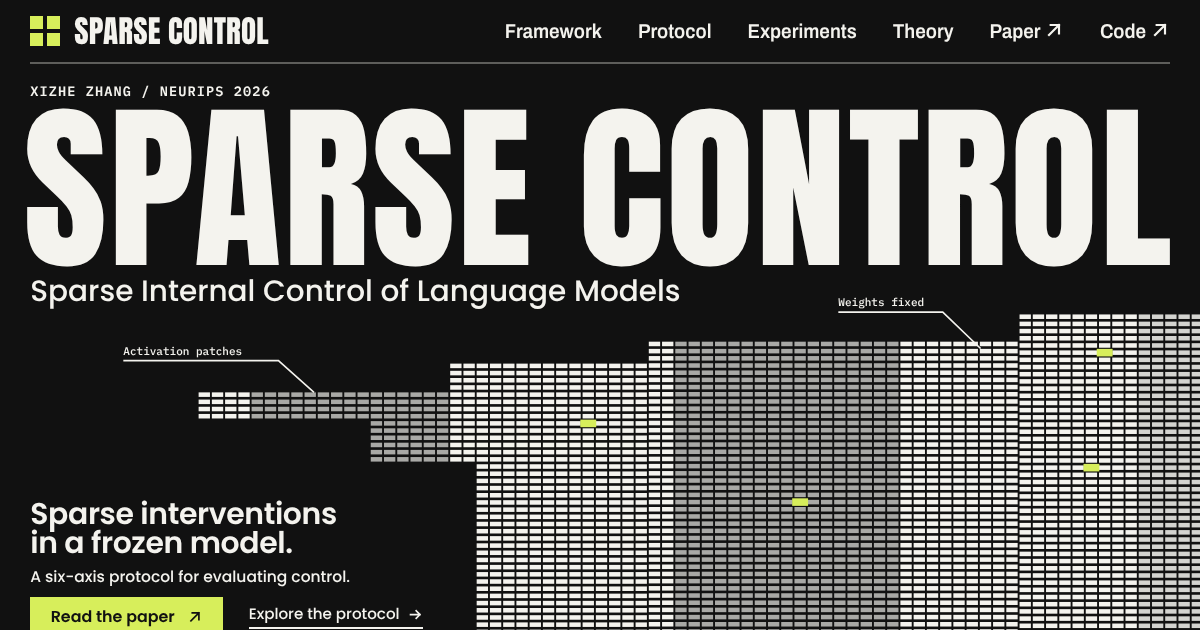
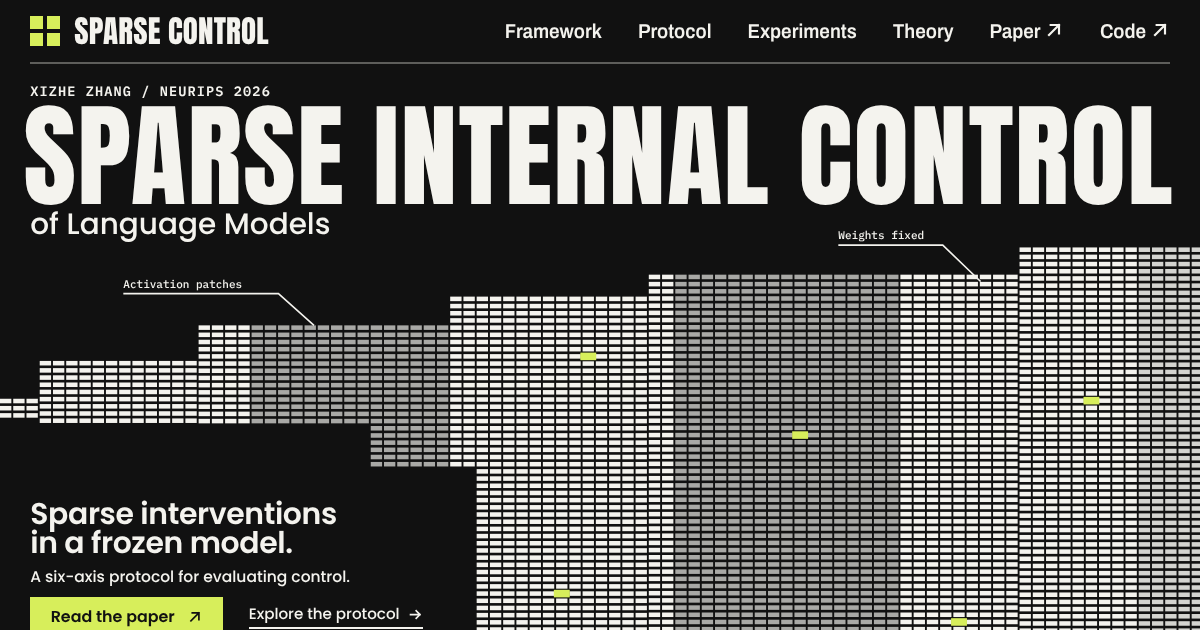
Spell out Sparse Internal Control in the hero title
The title now reads Sparse Internal Control, set smaller to fit, over
the subtitle of Language Models; the weight matrix follows the title
block. Phones stack the title on three lines. The share image and the
README banner are regenerated from the new hero.

Claude-Session: https://claude.ai/code/session_01L2A6VeTcmDE4DBXAbvURCG

diff --git a/index.html b/index.html
@@ -215,7 +215,7 @@ button{font:inherit; color:inherit; background:none; border:0; padding:0; cursor
   .sec{padding-top:48px; padding-bottom:48px}
   .hero{display:flex; flex-direction:column; min-height:0; padding-top:24px}
   .hero-art{order:2} .hero-foot{order:3}
-  .hero-title{margin-top:4px}
+  .hero-title{margin-top:6px; white-space:normal; width:auto; font-size:clamp(56px, 19vw, 132px); line-height:.94}
   .hero-sub{font-size:22px; margin-top:6px}
   .hero-art{position:relative; inset:auto; height:300px; margin:24px calc(-1 * var(--pr)) 0 calc(-1 * var(--pl))}
   .hero-foot{position:relative; left:auto; bottom:auto; max-width:none; padding:28px 0 36px}
@@ -337,8 +337,8 @@ button{font:inherit; color:inherit; background:none; border:0; padding:0; cursor
   <div class="hero-art" id="hero-art"><canvas id="mat" aria-hidden="true"></canvas></div>
   <div class="hero-head">
     <p class="label">Xizhe Zhang / NeurIPS 2026</p>
-    <h1 class="hero-title" id="h-title">Sparse Control</h1>
-    <p class="hero-sub">Sparse Internal Control of Language Models</p>
+    <h1 class="hero-title" id="h-title">Sparse Internal Control</h1>
+    <p class="hero-sub">of Language Models</p>
   </div>
   <div class="hero-foot" id="hero-foot">
     <h2>Sparse interventions<br>in a frozen model.</h2>
@@ -569,6 +569,7 @@ if (window.renderMathInElement) { try { renderMathInElement($('#axes'), { delimi
 /* ---- hero title fills the content width ---- */
 const title = $('.hero-title');
 function fitTitle(){
+  if (window.innerWidth <= 860){ title.style.fontSize = ''; return; } // phones: stacked, sized in CSS
   const w = title.parentElement.clientWidth + 14 * U();
   title.style.fontSize = '100px';
   const tw = title.getBoundingClientRect().width || 1;
@@ -585,11 +586,12 @@ function buildHero(){
   const r = cv.getBoundingClientRect(); W = Math.max(1, r.width); H = Math.max(1, r.height); dpr = Math.min(window.devicePixelRatio || 1, 2);
   cv.width = Math.round(W * dpr); cv.height = Math.round(H * dpr);
   const u = U(), narrow = window.innerWidth <= 860;
+  const dy = narrow ? 0 : $('.hero-head').getBoundingClientRect().bottom - r.top - 322 * u; // follow the title block
   const cw = 15 * u, ch = Math.max(3, 6 * u), px = 17.5 * u, py = Math.max(5, 9.5 * u);
   geo = { cw, ch, u };
   cells = [];
   for (let x = 0; x <= W; x += px){
-    const X = x / u, t = narrow ? 8 : (TOPS.find(([a, b]) => X >= a && X < b) || [0, 0, 0])[2] * u;
+    const X = x / u, t = narrow ? 8 : (TOPS.find(([a, b]) => X >= a && X < b) || [0, 0, 0])[2] * u + dy;
     const bottom = narrow ? H : X < 473 ? H - 304 * u : X < 630 ? H - 246 * u : H;
     const band = BANDS.find(([a, b]) => X >= a && X < b);
     for (let y = t; y + ch <= bottom; y += py) cells.push({ x, y, f: band ? band[2] : C.cream });
@@ -599,11 +601,11 @@ function buildHero(){
   cells.forEach(c => { o.fillStyle = c.f; o.fillRect(c.x, c.y, cw, ch); });
   if (!narrow){
     o.strokeStyle = C.cream; o.fillStyle = C.cream; o.lineWidth = 1.6; o.font = `500 ${Math.round(15 * u)}px "IBM Plex Mono", ui-monospace, monospace`; o.textBaseline = 'alphabetic';
-    const lab = (txt, x0, y0, x1, ty, tx2, ty2) => { o.fillText(txt, x0 * u, y0 * u); o.beginPath(); o.moveTo(x0 * u, ty * u); o.lineTo(x1 * u, ty * u); o.lineTo(tx2 * u, ty2 * u); o.stroke(); };
+    const lab = (txt, x0, y0, x1, ty, tx2, ty2) => { o.fillText(txt, x0 * u, y0 * u + dy); o.beginPath(); o.moveTo(x0 * u, ty * u + dy); o.lineTo(x1 * u, ty * u + dy); o.lineTo(tx2 * u, ty2 * u + dy); o.stroke(); };
     lab('Activation patches', 163, 384, 368, 392, 415, 434);
     lab('Weights fixed', 1108, 320, 1246, 328, 1296, 376);
   }
-  const pick = narrow ? [[.2, .3], [.45, .62], [.7, .2], [.86, .5], [.33, .85], [.62, .9]].map(([a, b]) => [a * W / u, b * H / u]) : PATCH;
+  const pick = narrow ? [[.2, .3], [.45, .62], [.7, .2], [.86, .5], [.33, .85], [.62, .9]].map(([a, b]) => [a * W / u, b * H / u]) : PATCH.map(([a, b]) => [a, b + dy / u]);
   lime = pick.map(([x, y]) => nearest(x * u, y * u)).filter(Boolean).map(c => ({ c, a: 1 }));
 }
 function nearest(x, y){ let best = null, bd = 1e12; for (const c of cells){ const d = (c.x - x) ** 2 + (c.y - y) ** 2; if (d < bd){ bd = d; best = c; } } return best; }

diff --git a/source/page.html b/source/page.html
@@ -211,7 +211,7 @@ button{font:inherit; color:inherit; background:none; border:0; padding:0; cursor
   .sec{padding-top:48px; padding-bottom:48px}
   .hero{display:flex; flex-direction:column; min-height:0; padding-top:24px}
   .hero-art{order:2} .hero-foot{order:3}
-  .hero-title{margin-top:4px}
+  .hero-title{margin-top:6px; white-space:normal; width:auto; font-size:clamp(56px, 19vw, 132px); line-height:.94}
   .hero-sub{font-size:22px; margin-top:6px}
   .hero-art{position:relative; inset:auto; height:300px; margin:24px calc(-1 * var(--pr)) 0 calc(-1 * var(--pl))}
   .hero-foot{position:relative; left:auto; bottom:auto; max-width:none; padding:28px 0 36px}
@@ -312,8 +312,8 @@ button{font:inherit; color:inherit; background:none; border:0; padding:0; cursor
   <div class="hero-art" id="hero-art"><canvas id="mat" aria-hidden="true"></canvas></div>
   <div class="hero-head">
     <p class="label">Xizhe Zhang / NeurIPS 2026</p>
-    <h1 class="hero-title" id="h-title">Sparse Control</h1>
-    <p class="hero-sub">Sparse Internal Control of Language Models</p>
+    <h1 class="hero-title" id="h-title">Sparse Internal Control</h1>
+    <p class="hero-sub">of Language Models</p>
   </div>
   <div class="hero-foot" id="hero-foot">
     <h2>Sparse interventions<br>in a frozen model.</h2>
@@ -474,6 +474,7 @@ if (window.renderMathInElement) { try { renderMathInElement($('#axes'), { delimi
 /* ---- hero title fills the content width ---- */
 const title = $('.hero-title');
 function fitTitle(){
+  if (window.innerWidth <= 860){ title.style.fontSize = ''; return; } // phones: stacked, sized in CSS
   const w = title.parentElement.clientWidth + 14 * U();
   title.style.fontSize = '100px';
   const tw = title.getBoundingClientRect().width || 1;
@@ -490,11 +491,12 @@ function buildHero(){
   const r = cv.getBoundingClientRect(); W = Math.max(1, r.width); H = Math.max(1, r.height); dpr = Math.min(window.devicePixelRatio || 1, 2);
   cv.width = Math.round(W * dpr); cv.height = Math.round(H * dpr);
   const u = U(), narrow = window.innerWidth <= 860;
+  const dy = narrow ? 0 : $('.hero-head').getBoundingClientRect().bottom - r.top - 322 * u; // follow the title block
   const cw = 15 * u, ch = Math.max(3, 6 * u), px = 17.5 * u, py = Math.max(5, 9.5 * u);
   geo = { cw, ch, u };
   cells = [];
   for (let x = 0; x <= W; x += px){
-    const X = x / u, t = narrow ? 8 : (TOPS.find(([a, b]) => X >= a && X < b) || [0, 0, 0])[2] * u;
+    const X = x / u, t = narrow ? 8 : (TOPS.find(([a, b]) => X >= a && X < b) || [0, 0, 0])[2] * u + dy;
     const bottom = narrow ? H : X < 473 ? H - 304 * u : X < 630 ? H - 246 * u : H;
     const band = BANDS.find(([a, b]) => X >= a && X < b);
     for (let y = t; y + ch <= bottom; y += py) cells.push({ x, y, f: band ? band[2] : C.cream });
@@ -504,11 +506,11 @@ function buildHero(){
   cells.forEach(c => { o.fillStyle = c.f; o.fillRect(c.x, c.y, cw, ch); });
   if (!narrow){
     o.strokeStyle = C.cream; o.fillStyle = C.cream; o.lineWidth = 1.6; o.font = `500 ${Math.round(15 * u)}px "IBM Plex Mono", ui-monospace, monospace`; o.textBaseline = 'alphabetic';
-    const lab = (txt, x0, y0, x1, ty, tx2, ty2) => { o.fillText(txt, x0 * u, y0 * u); o.beginPath(); o.moveTo(x0 * u, ty * u); o.lineTo(x1 * u, ty * u); o.lineTo(tx2 * u, ty2 * u); o.stroke(); };
+    const lab = (txt, x0, y0, x1, ty, tx2, ty2) => { o.fillText(txt, x0 * u, y0 * u + dy); o.beginPath(); o.moveTo(x0 * u, ty * u + dy); o.lineTo(x1 * u, ty * u + dy); o.lineTo(tx2 * u, ty2 * u + dy); o.stroke(); };
     lab('Activation patches', 163, 384, 368, 392, 415, 434);
     lab('Weights fixed', 1108, 320, 1246, 328, 1296, 376);
   }
-  const pick = narrow ? [[.2, .3], [.45, .62], [.7, .2], [.86, .5], [.33, .85], [.62, .9]].map(([a, b]) => [a * W / u, b * H / u]) : PATCH;
+  const pick = narrow ? [[.2, .3], [.45, .62], [.7, .2], [.86, .5], [.33, .85], [.62, .9]].map(([a, b]) => [a * W / u, b * H / u]) : PATCH.map(([a, b]) => [a, b + dy / u]);
   lime = pick.map(([x, y]) => nearest(x * u, y * u)).filter(Boolean).map(c => ({ c, a: 1 }));
 }
 function nearest(x, y){ let best = null, bd = 1e12; for (const c of cells){ const d = (c.x - x) ** 2 + (c.y - y) ** 2; if (d < bd){ bd = d; best = c; } } return best; }
